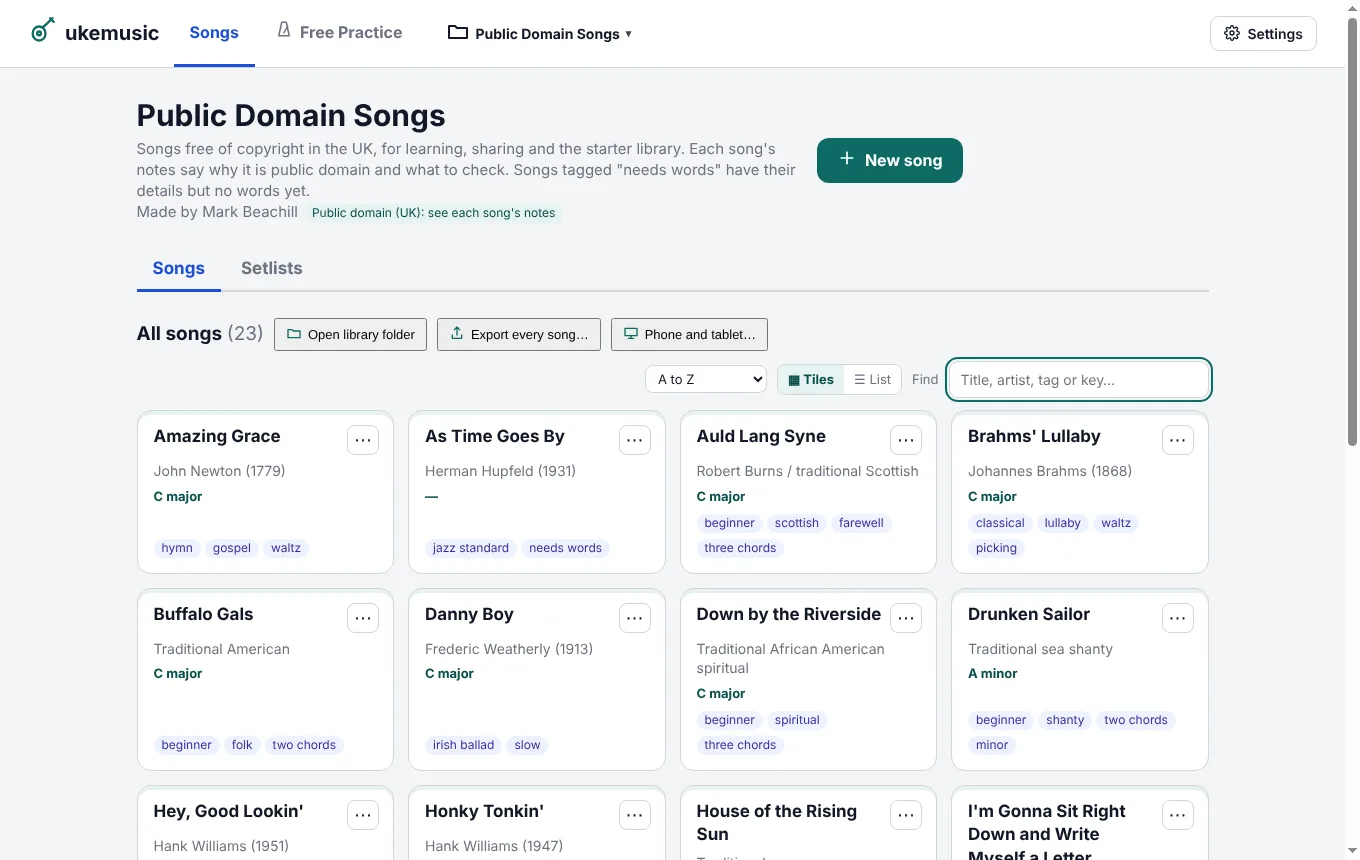
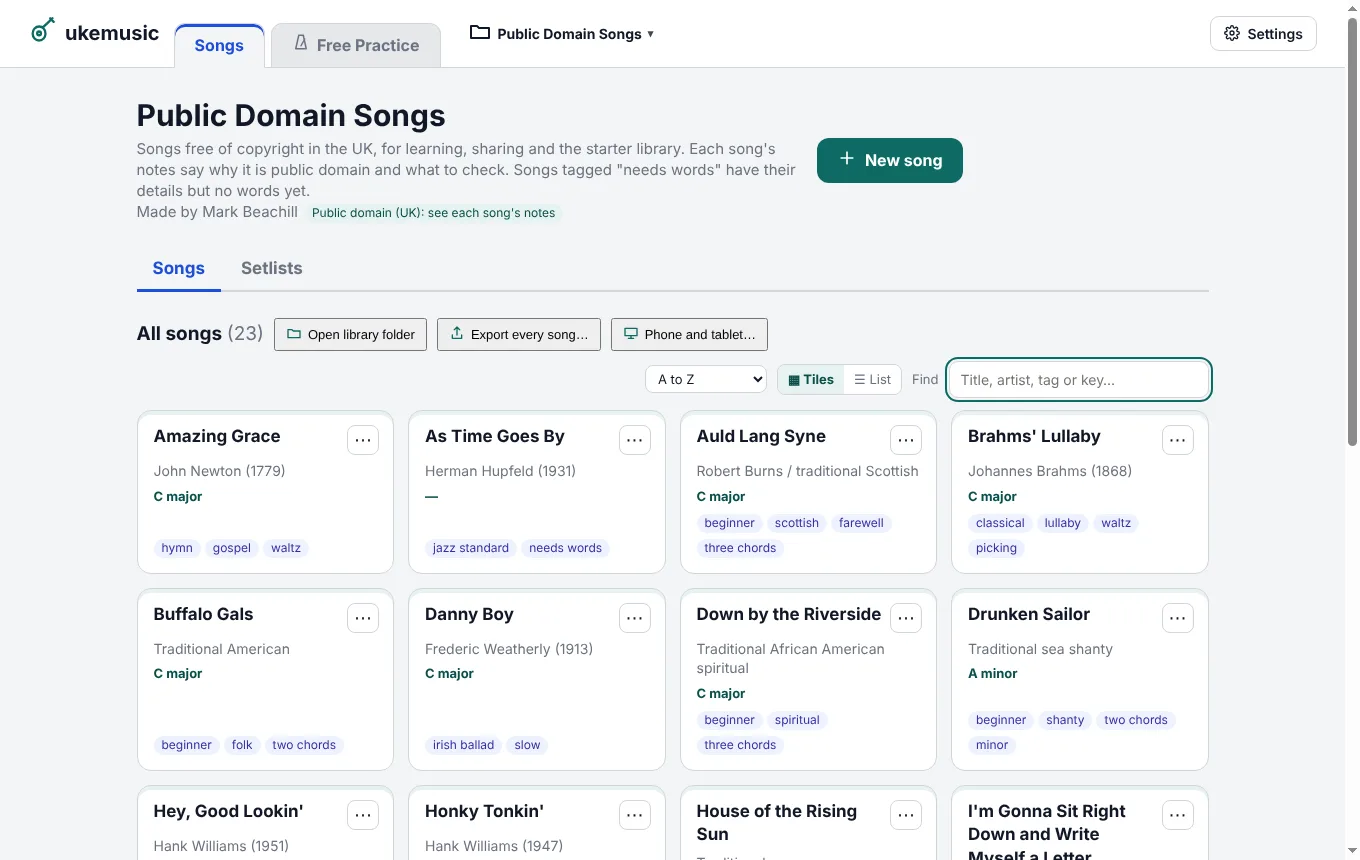
v4.94.1: Songs and Free Practice as tab shapes; no sideways jump between Songs and Setlists
Claude-Session: https://claude.ai/code/session_01UbrCRY8oACMXjLtCFCbaus

Changed region(s): [[0.1235, 0.0, 0.4632, 0.0907]]

diff --git a/index.html b/index.html
@@ -320,6 +320,7 @@
         color: var(--text);
       }
       .library[hidden] { display: none; }
+      .library { scrollbar-gutter: stable; } /* 4.94.1: Songs and Setlists line up (no jump when the scroll bar comes and goes) */
       .library-bar {
         position: sticky;
         top: 0;
@@ -388,11 +389,14 @@
       .phone-plan-list .what { color: var(--muted-text, #666); }
       .library-heading { display: flex; align-items: center; gap: 18px; }
       /* 4.94: Songs | Free Practice, in the top bar */
-      .home-tabs { display: flex; gap: 4px; align-self: stretch; margin: -12px 0; }
-      .home-tab { display: inline-flex; align-items: center; gap: 7px; border: 0; border-bottom: 3px solid transparent; background: none; font: inherit; font-size: 16px; font-weight: 700; color: var(--muted); padding: 0 16px; cursor: pointer; }
-      .home-tab:hover { color: var(--text); background: var(--accent-soft); }
-      .home-tab.active { color: var(--tabs-blue); border-bottom-color: var(--tabs-blue); }
-      .home-tab.practice-tab.active { color: #c2410c; border-bottom-color: #c2410c; }
+      /* 4.94.1: real tabs: each a raised card on the bar's bottom edge; the one in use is joined to
+         the page under it (its colour, no line between) with a coloured top edge */
+      .home-tabs { display: flex; gap: 6px; align-self: flex-end; margin-bottom: -13px; position: relative; z-index: 2; }
+      .home-tab { display: inline-flex; align-items: center; gap: 7px; font: inherit; font-size: 16px; font-weight: 700; color: var(--muted); padding: 9px 20px 10px; cursor: pointer;
+        background: color-mix(in srgb, var(--border) 55%, var(--panel-bg)); border: 1px solid var(--border); border-bottom-color: var(--border); border-radius: 11px 11px 0 0; box-shadow: inset 0 3px 0 transparent; }
+      .home-tab:hover:not(.active) { color: var(--text); background: var(--accent-soft); }
+      .home-tab.active { color: var(--tabs-blue); background: var(--app-bg); border-bottom-color: var(--app-bg); box-shadow: inset 0 3px 0 var(--tabs-blue); }
+      .home-tab.practice-tab.active { color: #c2410c; background: var(--toolbar-bg); border-bottom-color: var(--toolbar-bg); box-shadow: inset 0 3px 0 #c2410c; }
       .home-tab svg { width: 18px; height: 18px; }
       .practice.pr-under-home { top: var(--home-bar-h, 60px); }
       .new-song-dialog { width: min(560px, 94vw); }

diff --git a/web/app.html b/web/app.html
@@ -82,10 +82,12 @@ button { cursor: pointer; }
 .lib-head { display: flex; flex-wrap: wrap; gap: 12px 18px; align-items: flex-start; }
 .lib-head > div { flex: 1 1 260px; min-width: 0; }
 /* 4.94: Songs | Free Practice in the top bar; New song's choices */
-.home-tabs { display: flex; gap: 2px; align-self: stretch; }
-.home-tab { display: inline-flex; align-items: center; gap: 6px; border: 0; border-bottom: 3px solid transparent; background: none; font: inherit; font-size: 15px; font-weight: 700; color: var(--muted); padding: 0 12px; cursor: pointer; min-height: 44px; }
-.home-tab.active { color: var(--accent); border-bottom-color: var(--accent); }
-.home-tab.practice-tab.active { color: #c2410c; border-bottom-color: #c2410c; }
+.home-tabs { display: flex; gap: 6px; align-self: flex-end; margin-bottom: -7px; position: relative; z-index: 1; }
+.home-tab { display: inline-flex; align-items: center; gap: 6px; font: inherit; font-size: 15px; font-weight: 700; color: var(--muted); padding: 8px 16px; cursor: pointer; min-height: 42px;
+  background: color-mix(in srgb, var(--line) 55%, var(--surface)); border: 1px solid var(--line); border-radius: 11px 11px 0 0; box-shadow: inset 0 3px 0 transparent; }
+.home-tab:hover:not(.active) { color: var(--ink); background: var(--surface); }
+.home-tab.active { color: var(--accent); background: var(--bg); border-bottom-color: var(--bg); box-shadow: inset 0 3px 0 var(--accent); }
+.home-tab.practice-tab.active { color: #c2410c; box-shadow: inset 0 3px 0 #c2410c; }
 .home-tab svg { width: 18px; height: 18px; }
 @media (max-width: 560px) { #libraryView .bar-row { flex-wrap: wrap; row-gap: 0; } #libraryView .home-tabs { order: 10; width: 100%; } .home-tab { flex: 1; justify-content: center; } #libraryView .bar-row > .sync { display: none; } }
 .home-tab { white-space: nowrap; }

diff --git a/test/v4941.test.js b/test/v4941.test.js
@@ -1,0 +1,25 @@
+// 4.94.1: Songs and Free Practice are tab shapes (the one in use joined to the page under it, a
+// coloured top edge); Songs and Setlists line up (the scroll bar's room always kept).
+const assert = require('assert');
+const fs = require('fs');
+const path = require('path');
+
+function test(name, fn) {
+  try { fn(); console.log(`✓ ${name}`); } catch (error) { console.error(`✗ ${name}`); throw error; }
+}
+const read = (f) => fs.readFileSync(path.join(__dirname, '..', f), 'utf8').replace(/\r\n/g, '\n');
+const DESKTOP = read('index.html');
+const WEB = read('web/app.html');
+
+test('tab shapes: rounded tops on the bar\'s bottom edge; the one in use joined to the page', () => {
+  assert.ok(DESKTOP.includes('.home-tabs { display: flex; gap: 6px; align-self: flex-end; margin-bottom: -13px;'));
+  assert.ok(DESKTOP.includes('border-radius: 11px 11px 0 0;'));
+  assert.ok(DESKTOP.includes('.home-tab.active { color: var(--tabs-blue); background: var(--app-bg); border-bottom-color: var(--app-bg); box-shadow: inset 0 3px 0 var(--tabs-blue); }'));
+  assert.ok(DESKTOP.includes('.home-tab.practice-tab.active { color: #c2410c; background: var(--toolbar-bg); border-bottom-color: var(--toolbar-bg);'));
+  assert.ok(WEB.includes('.home-tabs { display: flex; gap: 6px; align-self: flex-end; margin-bottom: -7px;'));
+  assert.ok(WEB.includes('.home-tab.active { color: var(--accent); background: var(--bg); border-bottom-color: var(--bg); box-shadow: inset 0 3px 0 var(--accent); }'));
+});
+
+test('no sideways jump between Songs and Setlists', () => {
+  assert.ok(DESKTOP.includes('.library { scrollbar-gutter: stable; }'));
+});

diff --git a/HANDOVER.md b/HANDOVER.md
@@ -890,6 +890,7 @@ Full description: **INSTRUMENTS.md** (users and developers).
 | 4.92.1 | Music stand: two columns again on a laptop when a long line or two would have made it one |
 | 4.93.0 | Edit words & chords: a song opens as the sheet; Save and Discard at the top, editing or not |
 | 4.94.0 | Home: Songs and Free Practice tabs, songs as tiles, New song asks how; a song: × to close, a firm line while reading, Practice speed in the simple view |
+| 4.94.1 | Songs and Free Practice as tab shapes; no sideways jump between Songs and Setlists |
 | 4.53.0 (ribbon layout) | index.html ribbon rebuilt to one standard (`/* ── 4.53: the ribbon's layout ── */` at the end of the main style block): `.rib-group` = `.rib-items` (height `--rib-h`, 62px) over `.rib-label`; large `.rib-button`s; `.rib-col` = up to two rows of `--rib-row` (28px) small controls (`.rib-field`, `.rib-row`, `.rib-check`, `.rib-small`, `.rib-note`); a column whose fields have labels becomes a two-column grid (labels right-aligned, controls lined up). One setting in a group: no label (aria-label instead), the group names it. `.ribbon-panel` doesn't wrap: `foldRibbon()` folds groups from the right into generated `.rib-fold` buttons (`.rib-group.folded`, `.open` shows the group as a popover); runs on resize; `revealElement` opens a folded group. Own-setting mark moved to the group caption (`:has(.rib-own)`). Tab renamed Picking. `#writtenAccompaniment` goes in the strum column's second row. Tests: test/ribbon-layout.test.js. |
 | 4.53.0 | Ribbon buttons: content-sized (56px minimum, 88px usual maximum, 104px for long labels), top-aligned controls and retained icons when Play/Pause changes. File/Write use the requested short labels; Archive removed from File, Strums moved to native Help; This song renamed Song with its panel unchanged. `src/song-ui.js` shares `setControlLabel` and `memoryPlayLabel` across desktop/web. Learn labels describe chord visibility; “Play in new key”, “Practise trouble spots”, “Circle of fifths”; Pick “Choose picking” retains current-line insertion. Ribbon panels share one CSS grid row for stable height; inactive panels are invisible and inert. Section captions replace repeated upper labels; compact loop wording and Auto feel/Even selections retain existing values. The screenshot review checks equal header heights at 1440 and 1120px. Playback behaviour is unchanged. `test/song-ui-labels.test.js` covers labels, retained icons and targeted review arguments. UI review preserves the first app argument and supports section filters for iPad/iPhone as well as desktop. |
 | 2.5.0 | Initial release. Parser, HTML/Markdown renderers, Electron UI, CodeMirror, live preview, diagrams, tablature, INI config, editable stylesheet. |

diff --git a/CHANGELOG.md b/CHANGELOG.md
@@ -1,5 +1,11 @@
 # Changelog
 
+## v4.94.1
+
+- The home screen's **Songs** and **Free Practice** are now tab shapes on the top bar's edge. The one in use is joined to the page under it, in its colour with a coloured top edge (blue for Songs, orange for Free Practice). The other is a grey tab. The web player is the same.
+- Switching between **Songs** and **Setlists** no longer shifts the page sideways. The scroll bar's room is always kept, so the page doesn't move when the scroll bar comes and goes.
+- Website pictures of the home screen and Free Practice retaken.
+
 ## v4.94.0
 
 - Home screen: **Songs** and **Free Practice** are tabs at the top. Free Practice opens under them, so Songs takes you straight back. The orange Free Practice button has gone.
